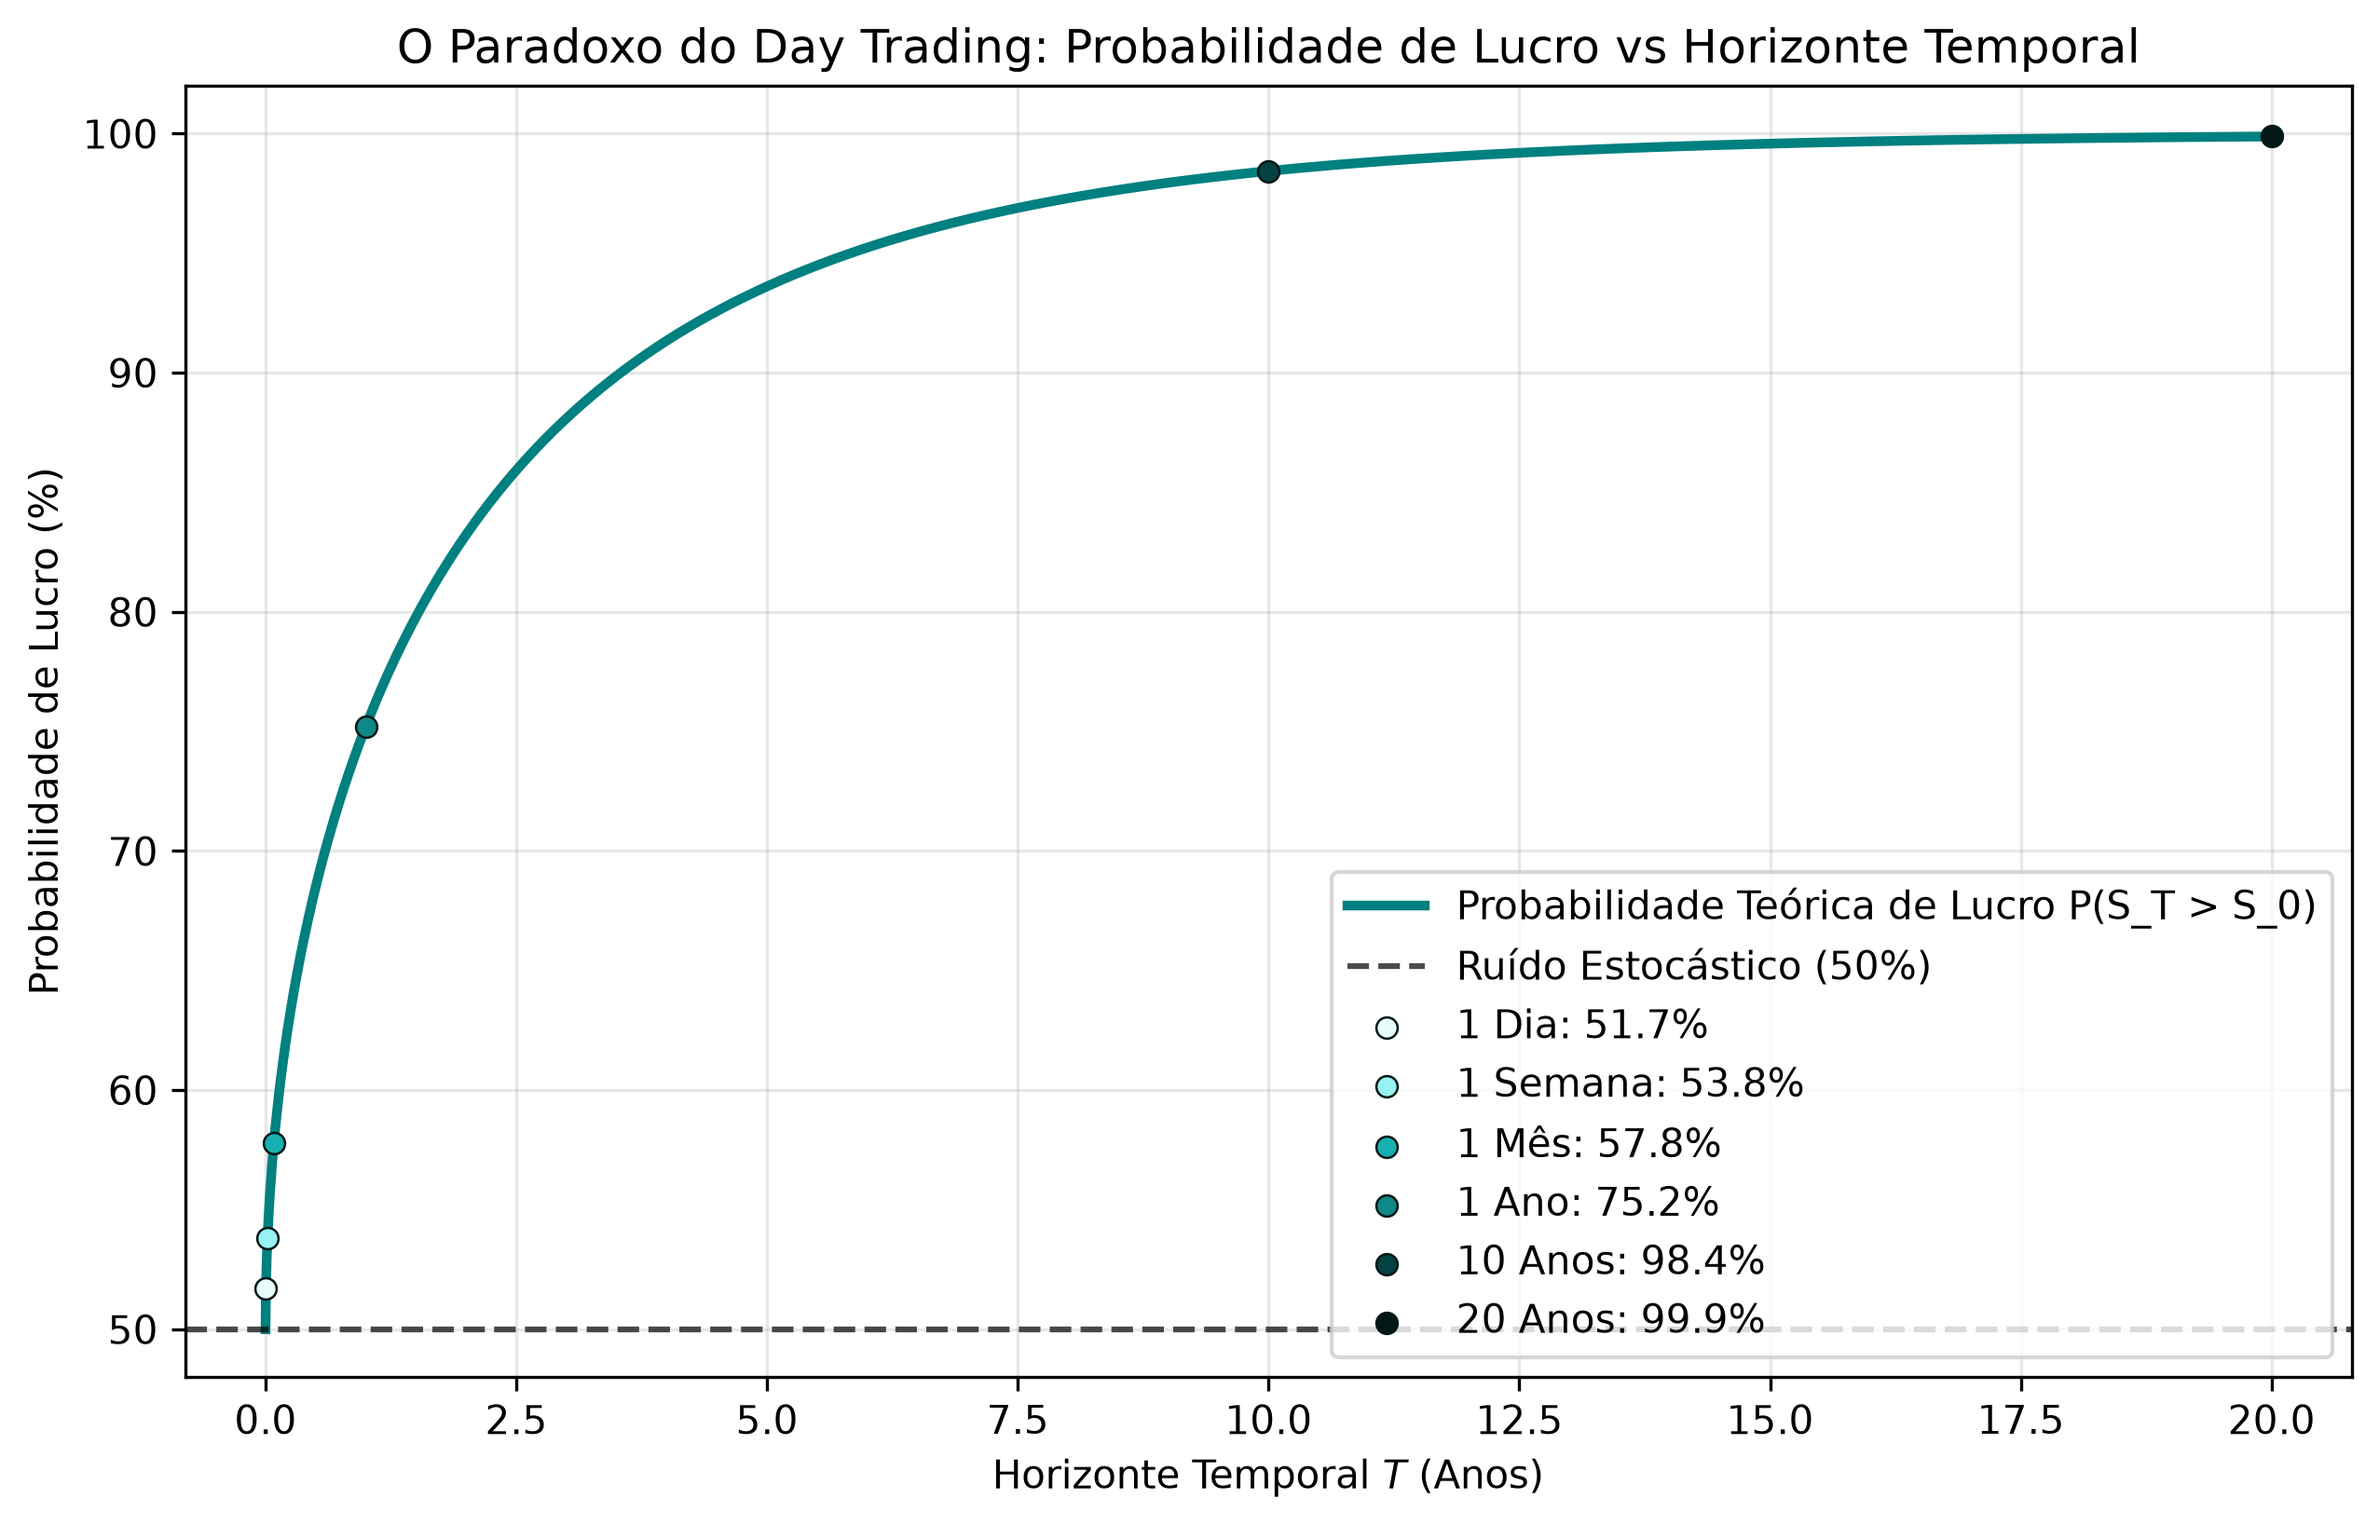
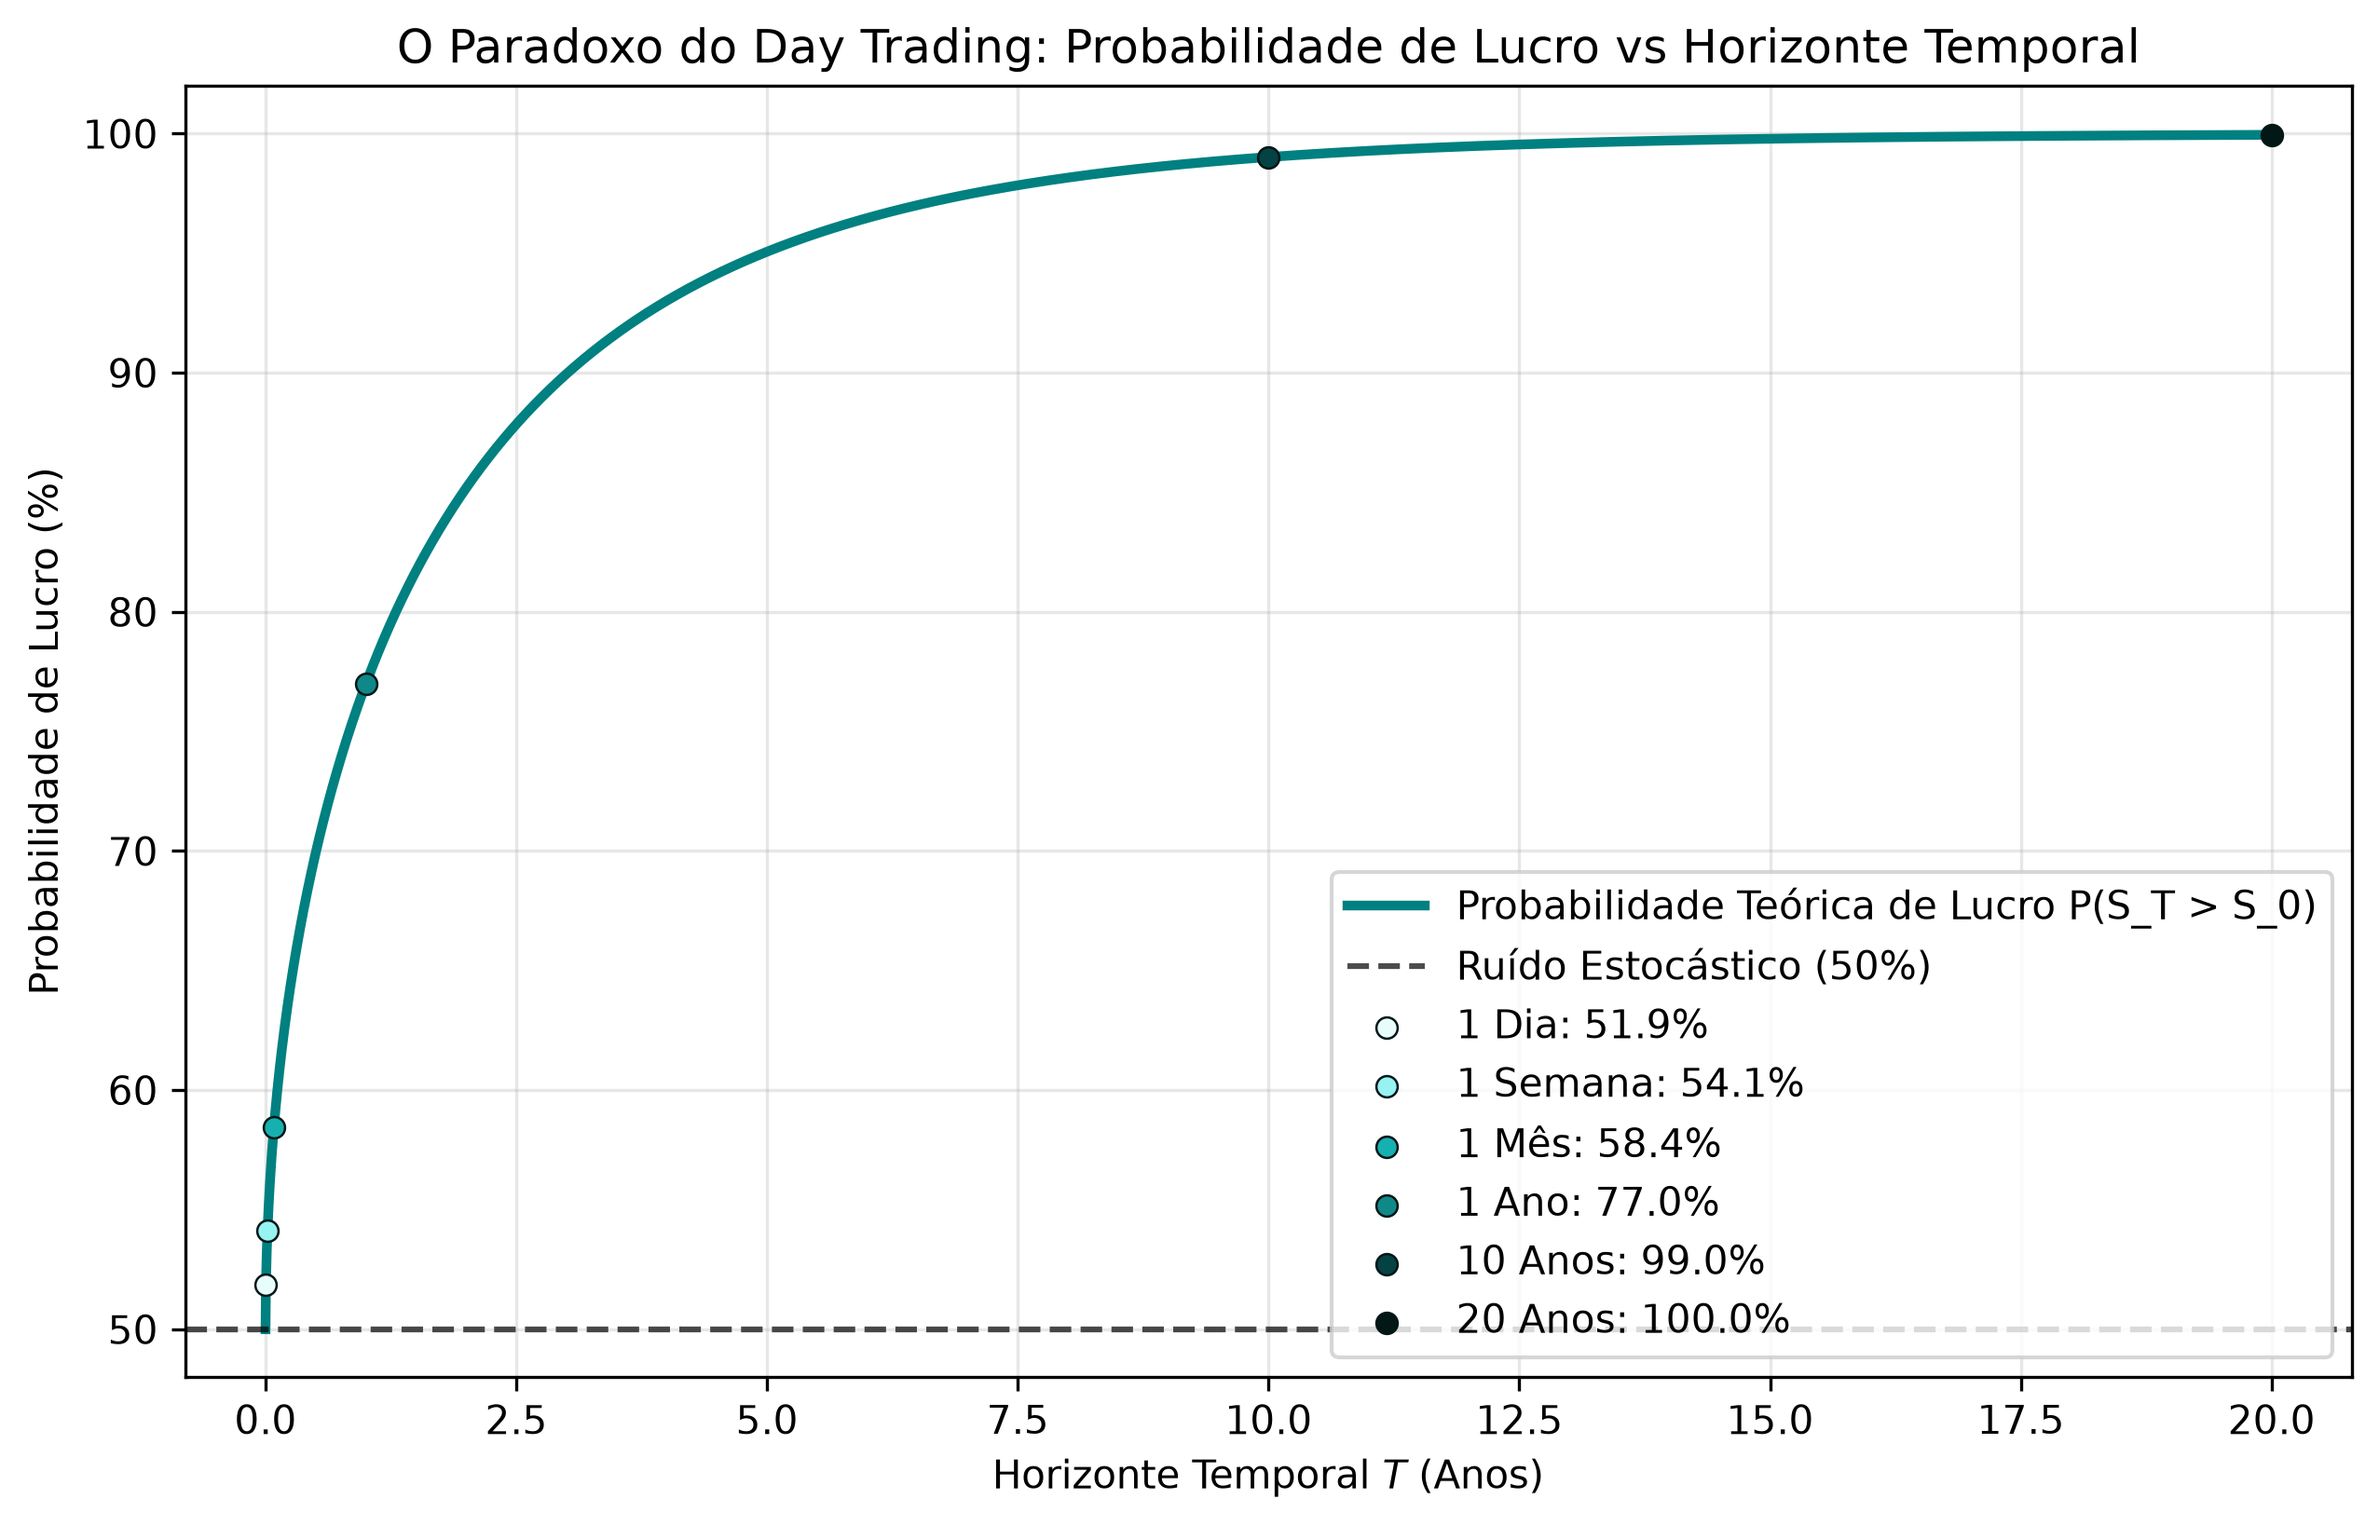
Atualiza gráficos de simulação e adiciona script para extração de dados do Yahoo Finance

diff --git a/parameters.py b/parameters.py
@@ -1,0 +1,22 @@
+import yfinance as yf
+import numpy as np
+
+# 1. Extrair os dados do Yahoo Finance (ex: S&P 500 ETF, últimos 5 anos)
+ticker = "VWCE.DE"
+dados = yf.download(ticker, period="5y")
+precos_fecho = dados['Close'].values
+
+# 2. Calcular os microestados (retornos logarítmicos diários)
+retornos = np.log(precos_fecho[1:] / precos_fecho[:-1])
+
+# 3. Calcular a Termodinâmica Anualizada (252 dias úteis)
+sigma_diario = np.std(retornos)
+mu_diario = np.mean(retornos)
+
+# Escalar para o macroestado anual
+sigma_anual = sigma_diario * np.sqrt(252)
+mu_anual = (mu_diario + 0.5 * sigma_diario**2) * 252 # Drift de Itô
+
+print(f"Ativo: {ticker}")
+print(f"Advecção / Drift (\u03bc): {mu_anual:.6f} ({mu_anual*100:.2f}% ao ano)")
+print(f"Volatilidade (\u03c3): {sigma_anual:.6f} ({sigma_anual*100:.2f}% ao ano)")

diff --git a/simulacao_mercado.py b/simulacao_mercado.py
@@ -16,8 +16,8 @@ branco = "#E8FCFC"
 # 1. PARÂMETROS GLOBAIS DO MERCADO
 # ==========================================
 S0 = 171.32                     # Preço inicial do ativo
-mu = 0.097                      # Tendência de crescimento (drift)
-sigma = 0.130                   # Volatilidade (temperatura/agitação)
+mu = 0.111338                   # Tendência de crescimento (drift)
+sigma = 0.137911                # Volatilidade (temperatura/agitação)
 T = 1                           # Horizonte temporal
 dias_uteis = 252                # Dias úteis do mercado financeiro
 N_passos = int(dias_uteis*T)    # Resolução
